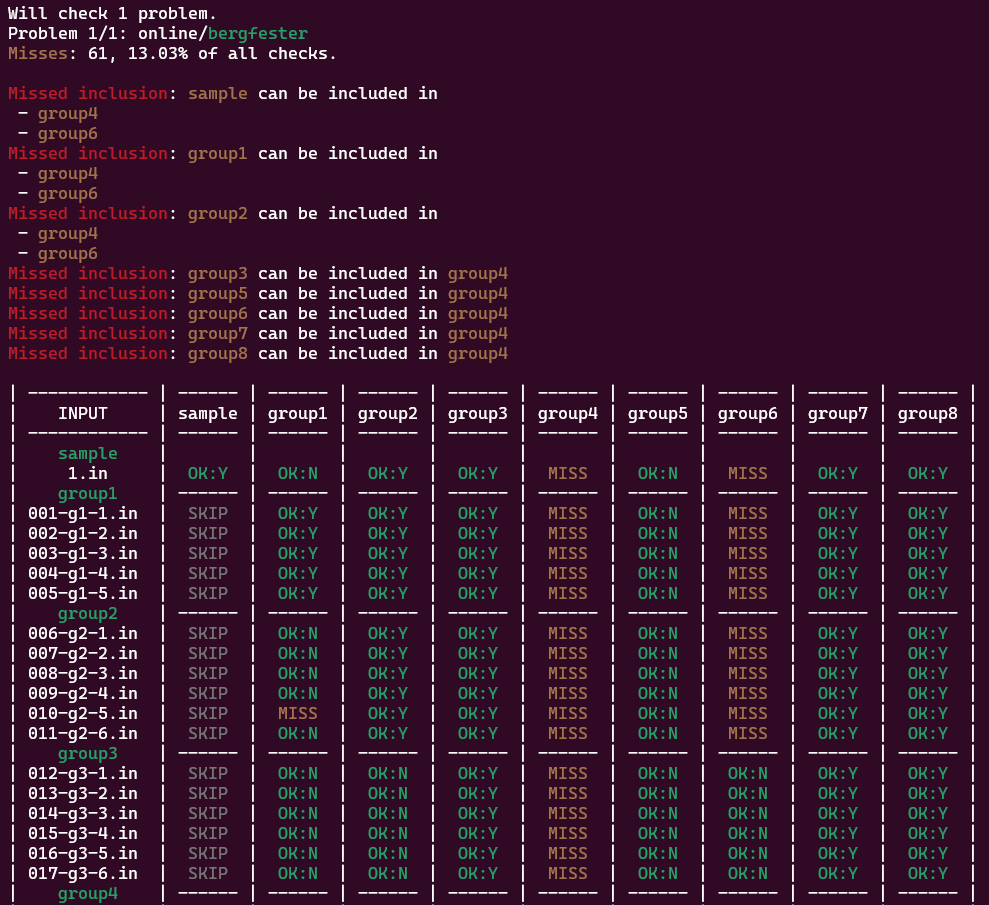
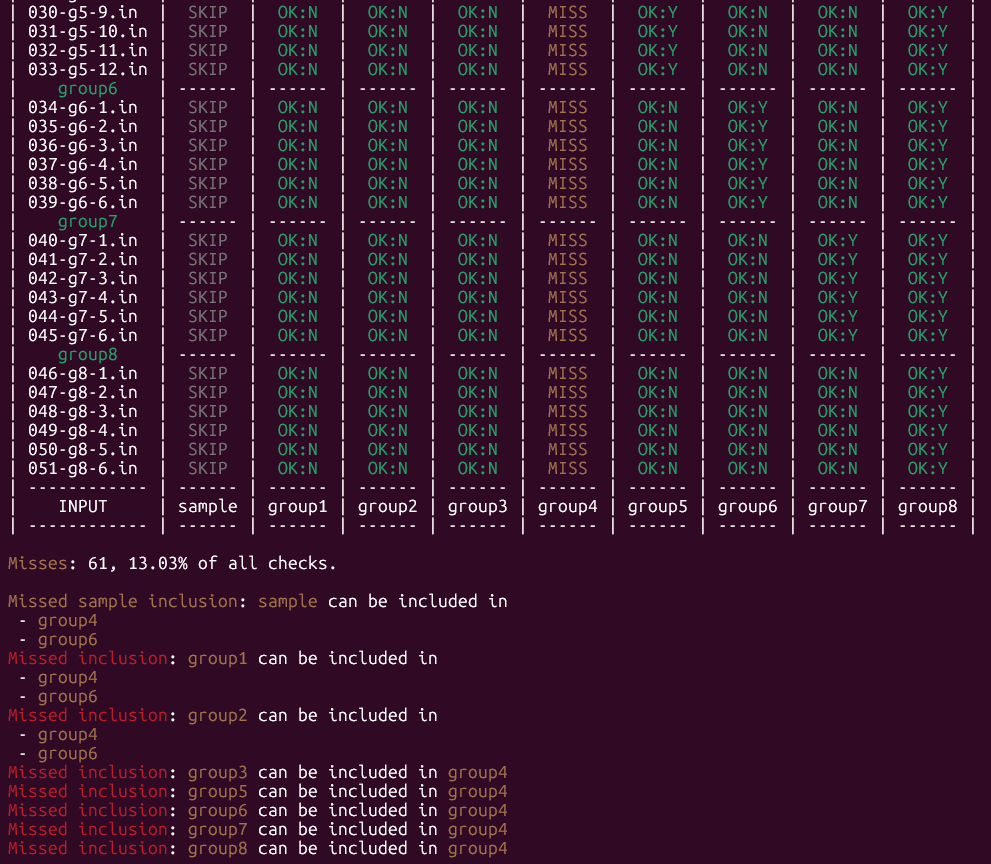
Modernize action setup

Changed region(s): [[0.0, 0.0, 1.0, 1.0]]

diff --git a/README.md b/README.md
@@ -44,8 +44,32 @@ Compiling the validators takes most of the time, so the compiled validators are 
 Builds that have not been used for 30 days are removed. Use `--no-cache` to compile everything from scratch.
 
 If you don't want to worry about remembering to run it manually, you can also install it to run automatically every time you commit to your problem repository.
-To do this, simply create the file `.github/workflows/ci.yaml`, and copy the contents of `ci.yaml` into it.
-It will then trigger on every push.
+To do this, create the file `.github/workflows/subtask_inclusion.yaml` in your problem repository with these contents:
+```yaml
+name: Check Subtask Inclusion
+
+on:
+  push:
+
+# The check only reads the repository
+permissions:
+  contents: read
+
+jobs:
+  check-subtask-inclusion:
+    runs-on: ubuntu-latest
+    timeout-minutes: 10 # Increase this if you have many problems
+
+    steps:
+      - name: Checkout the problems
+        uses: actions/checkout@v4
+        with:
+          persist-credentials: false # Don't leave the repository token on disk
+
+      - name: Check subtask inclusions
+        uses: Matistjati/subtask_inclusion_checker@v1
+```
+It will then trigger on every push, and write its report to the summary tab of the run.
 With minimal changes, you could make it such that you receive an email every time someone makes a push with missing subtask inclusions.
 
 I also make a big assumption for correctness: no group includes testcases from a group that comes later in Kattis' lexicographic order.
@@ -56,13 +80,14 @@ then all groups in the cycle are the same and could be merged into a single grou
 First, note that if you run this as part of CI, the script can easily consume lots of compute time (on the order of minutes).
 I am not responsible if the script acts up and uses a lot of compute.
 As a safety measure, I have put in a 10 minute timeout.
-If this is not sufficient, you can increase it in the `ci.yaml` file.
+If this is not sufficient, you can increase `timeout-minutes` in the workflow.
 
-Second, the action has hardcoded to pull the Python script from this repository in order to maximize convenience,
-meaning that if I get hacked, the problems could be exfiltrated.
-If you don't feel comfortable with this security risk (or don't trust me), here are two reasonable alternatives:
-- Fork this repository and modify the action to pull in your fork instead of this repository.
-- Copy the Python file to your own repository and modify the action run it directly, removing the need to pull in anything external at all.
+Second, the workflow above runs whatever the `v1` tag of this repository points to in order to maximize convenience
+(I move the tag when I release fixes), meaning that if I get hacked, the problems could be exfiltrated.
+If you don't feel comfortable with this security risk (or don't trust me), here are some reasonable alternatives:
+- Pin the action to a commit you have looked at, by replacing `@v1` with the full SHA of that commit.
+- Fork this repository and point `uses:` at your fork instead of this repository.
+- Copy the Python file to your own repository and run it directly in a `run:` step, removing the need to pull in anything external at all.
 
 I have taken reasonable security measures such as enabling 2FA, but in no event shall I be liable for any
 damages resulting from running code in this repository.
@@ -81,10 +106,10 @@ This is what you will see in the summary tab of the action in Github.
 
 
 Will check 1 problem.
-## Problem 1/1: online/bergfester
+## Problem 1/1: bergfester
 ### ⚠Misses: 61, 13.03% of all checks.
 
-❌Missed inclusion: sample can be included in
+⚠Missed sample inclusion: sample can be included in
  - group4
  - group6
 
